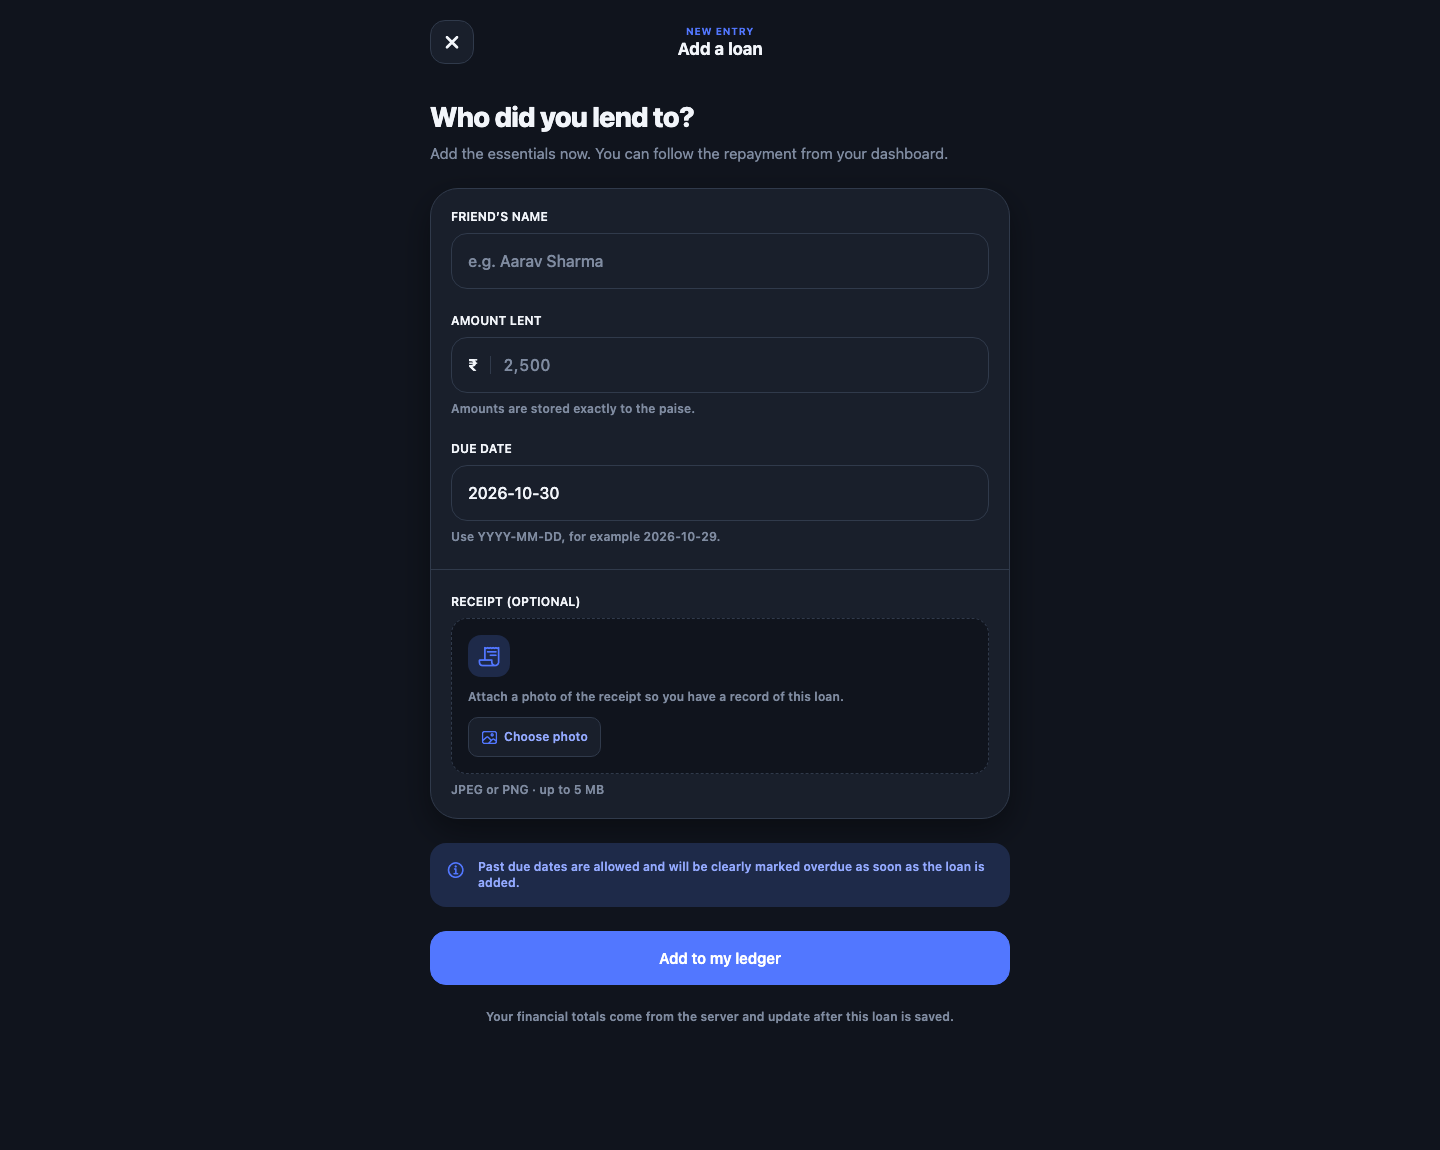
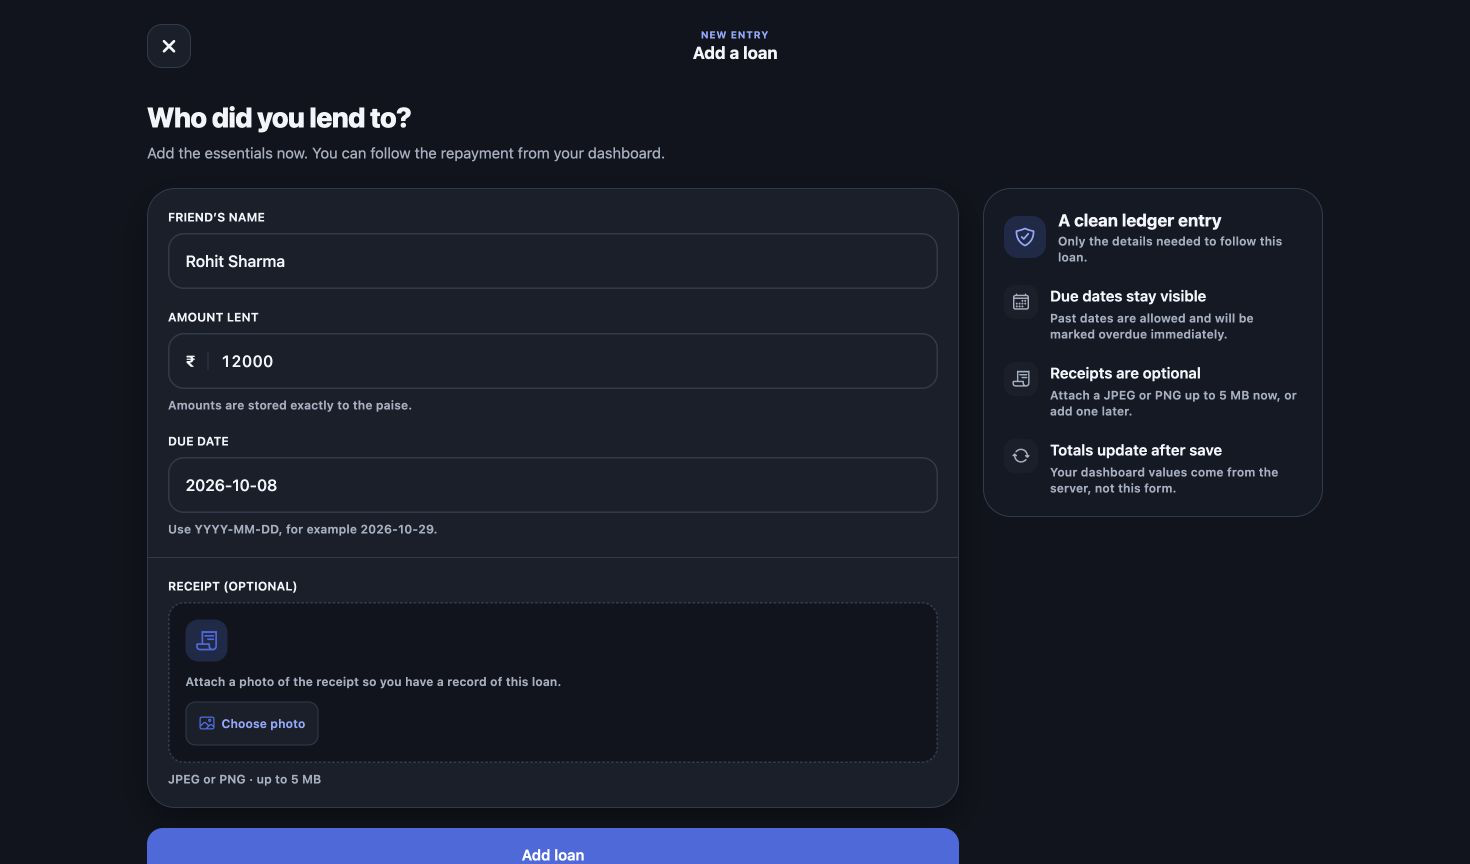
Refresh desktop screenshots and README

diff --git a/README.md b/README.md
@@ -5,7 +5,7 @@ MiniLedger is a focused mobile lending tracker for money lent to friends. It com
 ## What it does
 
 - Passwordless Indian mobile login with a six-digit development OTP printed by the API
-- Secure session persistence using Expo SecureStore on native devices
+- Validated session persistence using Expo SecureStore on native devices and browser storage on web
 - Server-calculated total lent, repaid, outstanding, and overdue amounts
 - Loan creation with client and server validation
 - Strong visual treatment for overdue loans without relying on colour alone
@@ -15,7 +15,7 @@ MiniLedger is a focused mobile lending tracker for money lent to friends. It com
 - User ownership checks on every protected loan operation
 - Exact money storage in integer paise
 - Optional receipt photo per loan, with secure upload, private storage, and authenticated preview
-- 97 automated tests: 27 mobile component/integration tests plus 70 backend tests covering authentication, production configuration, OTP boundaries, JWT algorithm pinning, loans, ownership, dates, summaries, receipt validation and cleanup consistency, deterministic receipt concurrency, filesystem permissions, request failure classification, and a real-PostgreSQL concurrent-repayment integration test
+- 124 automated tests: 54 mobile component/integration tests plus 70 backend tests covering authentication restoration, protected routing, production configuration, OTP boundaries, JWT algorithm pinning, loans, ownership, dates, summaries, receipt validation and cleanup consistency, deterministic receipt concurrency, filesystem permissions, request failure classification, and a real-PostgreSQL concurrent-repayment integration test
 
 The required login, lending, repayment, and summary journey is complete and tested, and the optional receipt-photo bonus is implemented end to end (see [Receipts](#receipts)).
 
@@ -56,9 +56,9 @@ Motion is restrained and purposeful (`components/fade-in-view.tsx`): a short fad
 
 ## Screenshots
 
-Captured from the running web build against the seeded PostgreSQL database, with real session data.
+Captured on 23 October 2026 from the running web build against the seeded PostgreSQL database, with real session data. The desktop gallery reflects the latest login, dashboard, and add-loan implementation.
 
-**Desktop — 1440px**
+**Desktop — 1470px browser viewport**
 
 | Login | Dashboard | Add loan |
 | --- | --- | --- |
